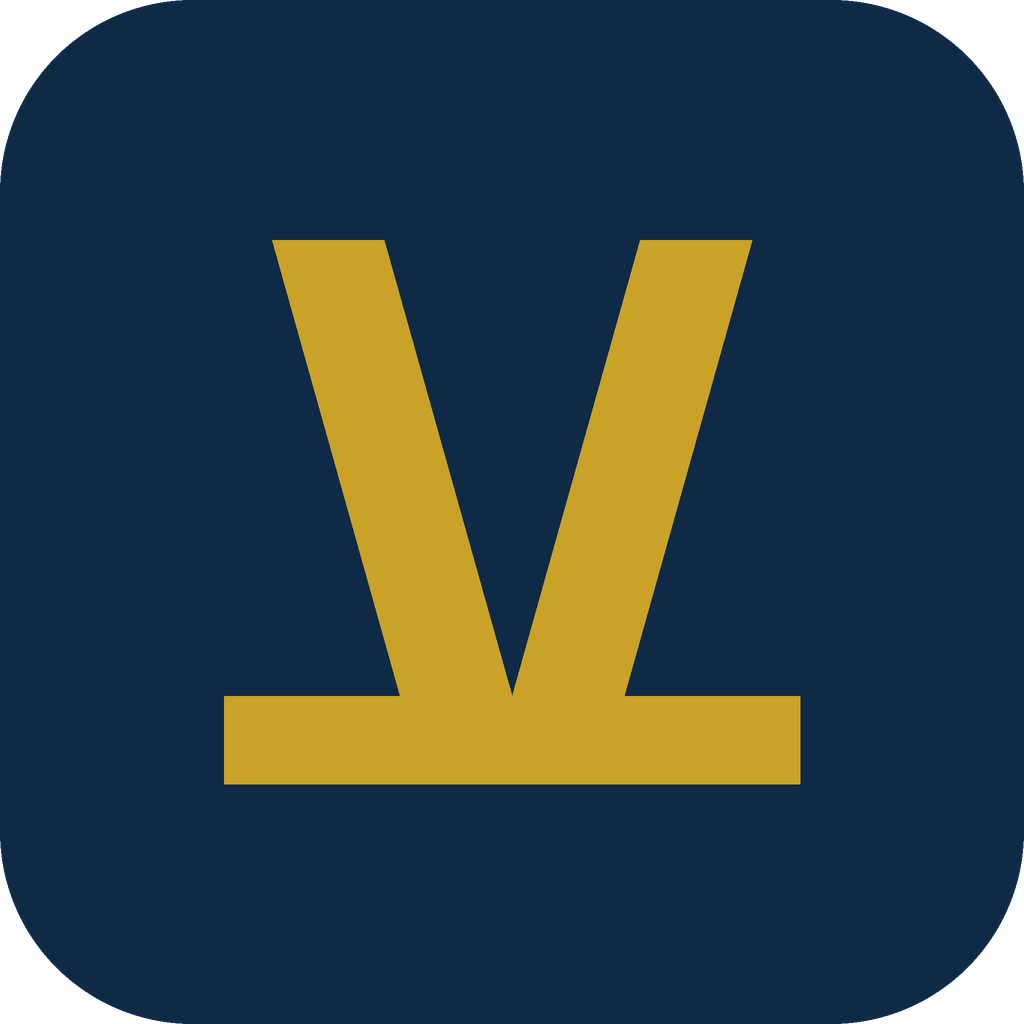
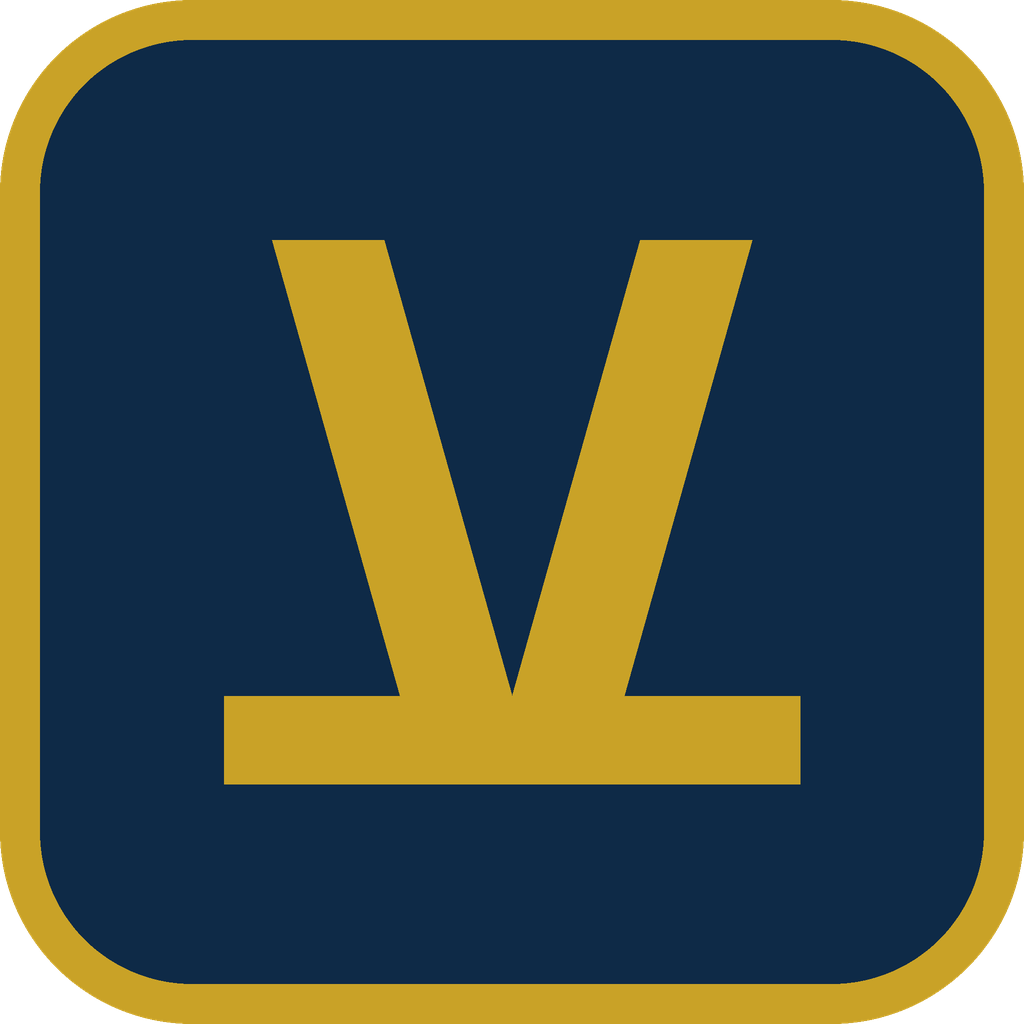
Fix grid alignment: explicit breakpoints kill orphan wraps, balance card copy
statrow 1/2/4 cols, grid3 1/3, grid2 1/2, whynow 1/3 by viewport;
roadmap converted from joined strip to separated cards; gap/investor
card copy evened out so equal-height rows have no dead space.
Same breakpoint treatment applied to demo.html grids.

Changed region(s): [[0.0, 0.0, 1.0, 1.0]]

diff --git a/index.html b/index.html
@@ -58,13 +58,17 @@
   .btn.gold:hover{background:var(--gold2)}
   .btn.ghost{background:none;border:1.5px solid var(--navy);color:var(--navy)}
   .btn.ghost:hover{background:var(--ivory)}
-  .statrow{display:grid;grid-template-columns:repeat(auto-fit,minmax(200px,1fr));gap:14px;margin-top:48px}
+  .statrow{display:grid;grid-template-columns:repeat(2,1fr);gap:14px;margin-top:48px}
+  @media(min-width:1000px){.statrow{grid-template-columns:repeat(4,1fr)}}
+  @media(max-width:540px){.statrow{grid-template-columns:1fr}}
   .stat{background:var(--ivory);border:1px solid var(--line);border-left:3px solid var(--gold);padding:15px 17px;border-radius:4px}
   .stat b{display:block;font-family:var(--serif);font-size:23px;color:var(--navy)}
   .stat span{font-size:12.5px;color:var(--grey)}
 
-  .grid3{display:grid;grid-template-columns:repeat(auto-fit,minmax(280px,1fr));gap:18px}
-  .grid2{display:grid;grid-template-columns:repeat(auto-fit,minmax(320px,1fr));gap:18px}
+  .grid3{display:grid;grid-template-columns:1fr;gap:18px}
+  @media(min-width:900px){.grid3{grid-template-columns:repeat(3,1fr)}}
+  .grid2{display:grid;grid-template-columns:1fr;gap:18px}
+  @media(min-width:760px){.grid2{grid-template-columns:repeat(2,1fr)}}
   .card{background:#fff;border:1px solid var(--line);border-radius:6px;padding:24px;box-shadow:0 1px 3px rgba(14,42,71,.05)}
   .card h3{font-family:var(--serif);font-size:18px;color:var(--navy);margin-bottom:8px}
   .card p{color:var(--grey);font-size:14px}
@@ -72,7 +76,8 @@
   .punch{margin-top:22px;background:var(--navy);color:#EAF0F6;border-radius:6px;padding:18px 22px;font-size:15.5px}
   .punch b{color:var(--gold2)}
 
-  .whynow{display:grid;grid-template-columns:repeat(auto-fit,minmax(240px,1fr));gap:18px;margin-top:8px}
+  .whynow{display:grid;grid-template-columns:1fr;gap:18px;margin-top:8px}
+  @media(min-width:900px){.whynow{grid-template-columns:repeat(3,1fr)}}
   .wn{background:var(--ivory);border:1px solid var(--line);border-radius:6px;padding:22px}
   .wn b{display:block;font-family:var(--serif);font-size:30px;color:var(--navy)}
   .wn span{font-size:13px;color:var(--grey)}
@@ -80,14 +85,14 @@
   .wn.pos b{font-size:16px;color:var(--gold2);font-family:var(--sans);letter-spacing:.08em;text-transform:uppercase}
   .wn.pos span{color:#C9D6E2;font-size:13.5px}
 
-  .roadmap{display:grid;grid-template-columns:repeat(auto-fit,minmax(220px,1fr));gap:0;margin-top:26px;border:1px solid var(--line);border-radius:6px;overflow:hidden;background:#fff}
-  .rstep{background:#fff;padding:20px;border-right:1px solid var(--line);position:relative}
-  .rstep:last-child{border-right:none}
+  .roadmap{display:grid;grid-template-columns:1fr;gap:14px;margin-top:26px}
+  @media(min-width:640px){.roadmap{grid-template-columns:repeat(2,1fr)}}
+  @media(min-width:1000px){.roadmap{grid-template-columns:repeat(4,1fr)}}
+  .rstep{background:#fff;padding:20px;border:1px solid var(--line);border-radius:6px}
   .rstep .when{font-family:var(--mono);font-size:12px;color:#B07A1E;font-weight:700;letter-spacing:.05em}
   .rstep h3{font-family:var(--serif);font-size:16px;color:var(--navy);margin:6px 0 6px}
   .rstep p{font-size:13px;color:var(--grey)}
   .rstep.now{background:var(--ivory);border-top:3px solid var(--gold)}
-  @media(max-width:720px){.rstep{border-right:none;border-bottom:1px solid var(--line)}}
 
   .honest{margin-top:26px;border:1px dashed var(--gold);border-radius:6px;padding:20px 24px;background:#FBF8EF}
   .honest h3{font-family:var(--serif);color:var(--navy);font-size:17px;margin-bottom:6px}
@@ -118,7 +123,7 @@
 <header>
   <div class="hwrap">
     <a class="logo" href="#top">
-      <svg width="34" height="34" viewBox="0 0 64 64"><rect width="64" height="64" rx="12" fill="#0E2A47" stroke="#1B4B7A" stroke-width="1"/><path fill="#C9A227" d="M17 15h7l8 28.5h-7zM40 15h7l-8 28.5h-7zM14 43.5h36V49H14z"/></svg>
+      <svg width="34" height="34" viewBox="0 0 64 64"><rect x="1.25" y="1.25" width="61.5" height="61.5" rx="10.75" fill="#0E2A47" stroke="#C9A227" stroke-width="2.5"/><path fill="#C9A227" d="M17 15h7l8 28.5h-7zM40 15h7l-8 28.5h-7zM14 43.5h36V49H14z"/></svg>
       <div>
         <div class="wm">VANILLA<span>BONDS</span></div>
         <div class="tag">Tradeable bonds for European mid-caps</div>
@@ -161,7 +166,7 @@
       <div class="card">
         <span class="n">BELOW THE GAP</span>
         <h3>Retail &amp; crowdfunding platforms</h3>
-        <p>Built for small tickets — orders of magnitude too small for a €20–100m issuance by an established company.</p>
+        <p>Built for small tickets and retail investors — orders of magnitude too small for a €20–100m issuance, and without the qualified-investor base a deal that size needs to clear.</p>
       </div>
       <div class="card">
         <span class="n">ABOVE THE GAP</span>
@@ -171,7 +176,7 @@
       <div class="card">
         <span class="n">WHAT REMAINS</span>
         <h3>Slow, bilateral, locked</h3>
-        <p>House-bank loans, Schuldschein and private credit — mostly untradeable, single-lender, and reserved for credit that bank models read as investment grade. Investors reach this segment only through fund wrappers whose fees eat 1.5–2.5% of the return.</p>
+        <p>House-bank loans, Schuldschein and private credit — untradeable, single-lender, and reserved for credit that bank models read as investment grade. Investors reach the segment only through funds whose fees eat 1.5–2.5% of the return.</p>
       </div>
     </div>
     <div class="punch">The missing middle: <b>€20–100m of debt for proven mid-caps.</b> The root cause is arranger cost structures that make deals this size unprofitable — an allocation problem, not a capital-shortage problem. Standardisation is what removes it.</div>
@@ -217,7 +222,7 @@
       <div class="card">
         <span class="n">FOR INVESTORS</span>
         <h3>Direct access, full coupon, an exit</h3>
-        <p>Access to a segment that is hard to reach directly — today it runs through fund wrappers with a 1.5–2.5% fee layer. Buy direct at €100k denominations, keep the full coupon, and trade out when needed: the exit route private credit lacks.</p>
+        <p>Direct access to a segment that today runs through fund wrappers with a 1.5–2.5% fee layer. Buy at €100k denominations, keep the full coupon, trade out when needed — the exit private credit lacks.</p>
       </div>
     </div>
     <div class="punch">Asset-light by design: <b>we never lend, never hold the bonds, never touch client money.</b> The mid-cap is the issuer; the trustee, paying agent, auditors and counsel stay independent — their independence is the value.</div>

diff --git a/demo.html b/demo.html
@@ -64,14 +64,18 @@
   .btn.gold:hover{background:var(--gold2)}
   .btn.ghost{background:none;border:1.5px solid var(--navy);color:var(--navy)}
   .btn.ghost:hover{background:var(--ivory)}
-  .statrow{display:grid;grid-template-columns:repeat(auto-fit,minmax(190px,1fr));gap:14px;margin-top:44px}
+  .statrow{display:grid;grid-template-columns:repeat(2,1fr);gap:14px;margin-top:44px}
+  @media(min-width:1000px){.statrow{grid-template-columns:repeat(4,1fr)}}
+  @media(max-width:540px){.statrow{grid-template-columns:1fr}}
   .stat{background:var(--ivory);border:1px solid var(--line);border-left:3px solid var(--gold);padding:14px 16px;border-radius:4px}
   .stat b{display:block;font-family:var(--serif);font-size:23px;color:var(--navy)}
   .stat span{font-size:12.5px;color:var(--grey)}
 
   /* ---------- cards & grids ---------- */
-  .grid3{display:grid;grid-template-columns:repeat(auto-fit,minmax(280px,1fr));gap:18px}
-  .grid2{display:grid;grid-template-columns:repeat(auto-fit,minmax(340px,1fr));gap:18px}
+  .grid3{display:grid;grid-template-columns:1fr;gap:18px}
+  @media(min-width:900px){.grid3{grid-template-columns:repeat(3,1fr)}}
+  .grid2{display:grid;grid-template-columns:1fr;gap:18px}
+  @media(min-width:760px){.grid2{grid-template-columns:repeat(2,1fr)}}
   .card{background:#fff;border:1px solid var(--line);border-radius:6px;padding:22px;box-shadow:0 1px 3px rgba(14,42,71,.05)}
   .card h3{font-family:var(--serif);font-size:18px}
   .card p{color:var(--grey);font-size:14px;margin-top:8px}
@@ -241,7 +245,7 @@
 <header>
   <div class="hwrap">
     <div class="logo" onclick="showView('platform')">
-      <svg width="34" height="34" viewBox="0 0 64 64"><rect width="64" height="64" rx="12" fill="#0E2A47" stroke="#1B4B7A" stroke-width="1"/><path fill="#C9A227" d="M17 15h7l8 28.5h-7zM40 15h7l-8 28.5h-7zM14 43.5h36V49H14z"/></svg>
+      <svg width="34" height="34" viewBox="0 0 64 64"><rect x="1.25" y="1.25" width="61.5" height="61.5" rx="10.75" fill="#0E2A47" stroke="#C9A227" stroke-width="2.5"/><path fill="#C9A227" d="M17 15h7l8 28.5h-7zM40 15h7l-8 28.5h-7zM14 43.5h36V49H14z"/></svg>
       <div>
         <div class="wm">VANILLA<span>BONDS</span></div>
         <div class="tag">European Mid-Cap Bond Platform</div>
